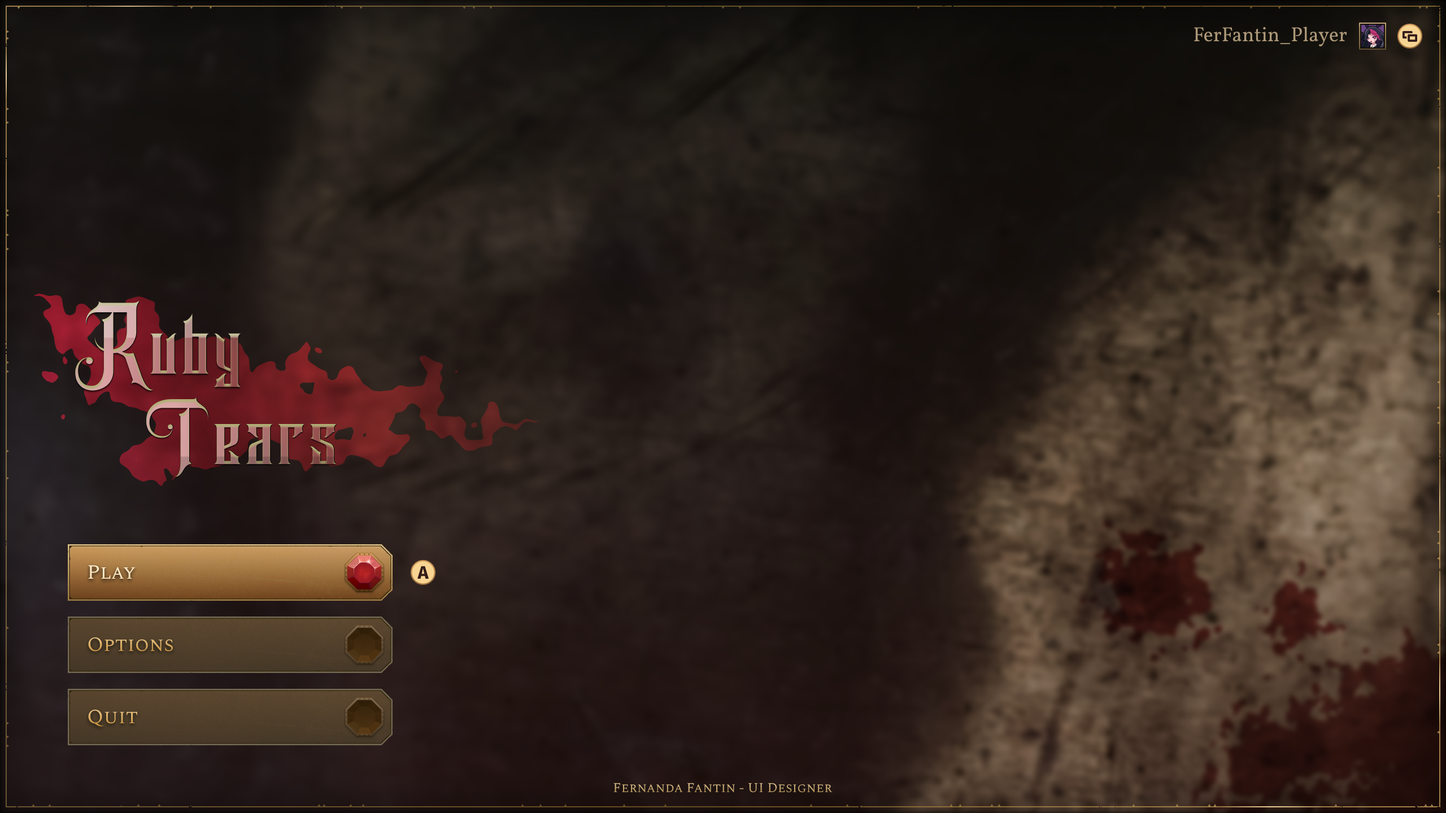
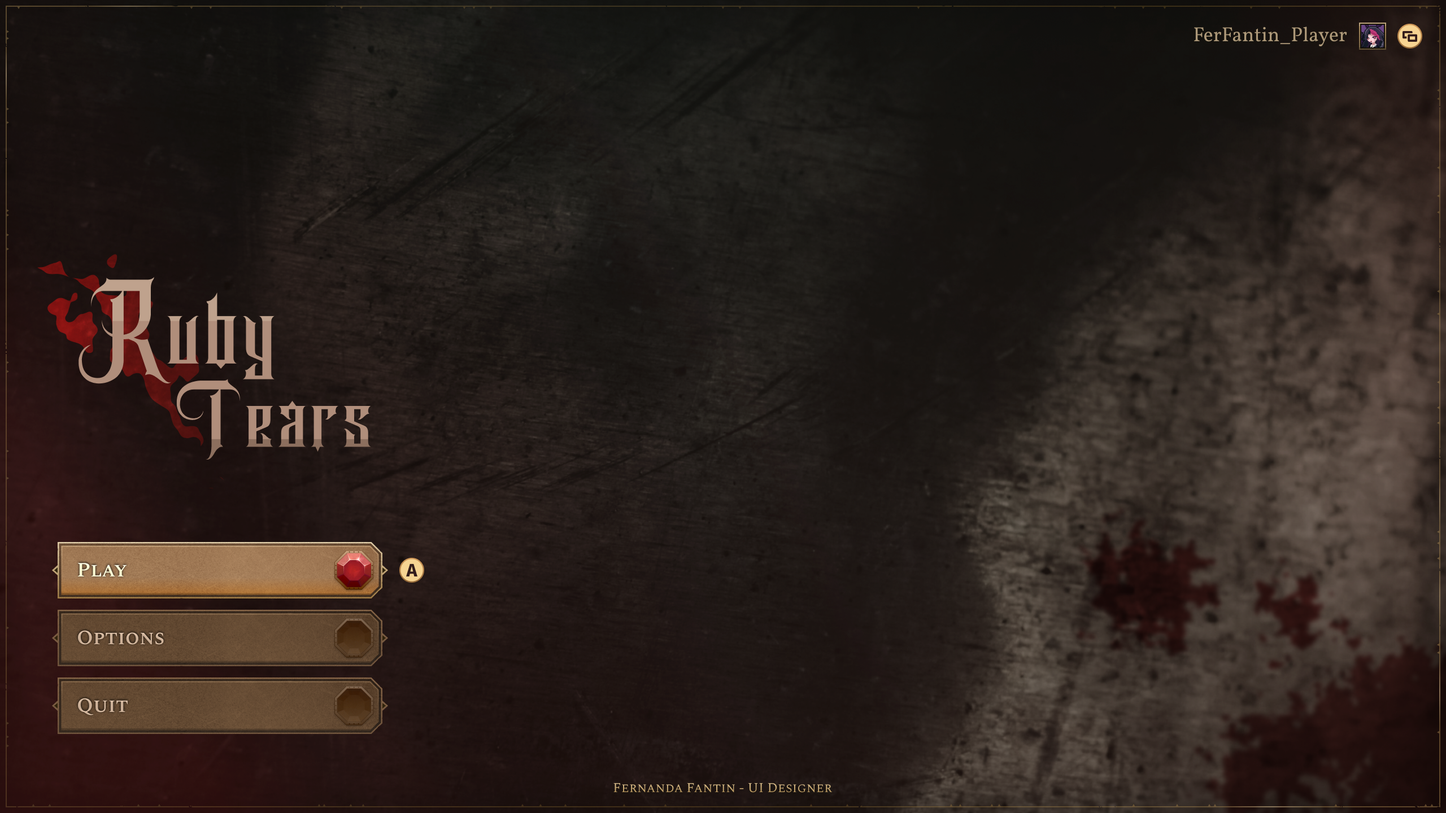
Updated RubyTears

diff --git a/Interfaces.html b/Interfaces.html
@@ -51,6 +51,30 @@
   <div class="bg-wrapper">
     <div class="textboxLarge">
       <div class="dataRowTitle">
+        <div class="title">Ruby Tears</div>
+      </div>
+      <div class="dataRowLarge">
+        <div class="legendText">Personal Project (2026)</div>
+      </div>
+      <br>
+      <div class="description">
+        Exploring a gamepad UI for an action RPG. Item images from Bloodborne (FromSoftware).
+        <br>
+        Character made by
+        <a href="https://www.artstation.com/artwork/aoZDYJ" class="linkText" target="_blank">Robin-Julian Sea Lee</a>.
+      </div>
+      <br>
+      <div class="modal-wrapper">
+        <img src="img/UI/Personal/RubyTears_01.png" name="modal" class="modaltriggerLarge">
+        <img src="img/UI/Personal/RubyTears_02.png" name="modal" class="modaltriggerMedium">
+        <img src="img/UI/Personal/RubyTears_03.png" name="modal" class="modaltriggerMedium">
+      </div>
+    </div>
+  </div>
+
+  <div class="bg-wrapper">
+    <div class="textboxLarge">
+      <div class="dataRowTitle">
         <div class="title">MIB Most Wanted</div>
       </div>
       <div class="dataRowLarge">
@@ -58,7 +82,9 @@
       </div>
       <br>
       <div class="description">
-        UI Design <span class="dimText">|</span> Logo <span class="dimText">|</span> UI Art Assets <span class="dimText">|</span> Custom Font <span class="dimText">|</span> UI Animation <span class="dimText">|</span> UI Setup in Unity
+        UI Design <span class="dimText">|</span> Logo <span class="dimText">|</span> UI Art Assets <span
+          class="dimText">|</span> Custom Font <span class="dimText">|</span> UI Animation <span
+          class="dimText">|</span> UI Setup in Unity
       </div>
       <br>
       <div class="modal-wrapper">
@@ -83,7 +109,9 @@
       </div>
       <br>
       <div class="description">
-        UI Design <span class="dimText">|</span> Logo <span class="dimText">|</span> UI Art Assets <span class="dimText">|</span> Tutorial Illustrations <span class="dimText">|</span> UI Animation <span class="dimText">|</span> UI Setup in Unity<br>
+        UI Design <span class="dimText">|</span> Logo <span class="dimText">|</span> UI Art Assets <span
+          class="dimText">|</span> Tutorial Illustrations <span class="dimText">|</span> UI Animation <span
+          class="dimText">|</span> UI Setup in Unity<br>
         Further images to be revealed after release.
       </div>
       <br>
@@ -96,30 +124,6 @@
     </div>
   </div>
 
-  <div class="bg-wrapper">
-    <div class="textboxLarge">
-      <div class="dataRowTitle">
-        <div class="title">Personal Projects</div>
-      </div>
-      <div class="dataRowLarge">
-        <div class="legendText">Style and Animation Studies</div>
-      </div>
-      <br>
-      <div class="description">
-        Practicing different UI art styles and animations.
-      </div>
-      <br>
-      <div class="modal-wrapper">
-        <img src="img/UI/Personal/RubyTears_01.png" name="modal" class="modaltriggerLarge"> 
-        <video class="modaltriggerVideoMedium" name="modal" autoplay muted loop webkit-playsinline playsinline>
-          <source src="img/UI/Personal/DangerGang.mp4" type="video/mp4" />
-        </video>
-        <video class="modaltriggerVideoMedium" name="modal" autoplay muted loop webkit-playsinline playsinline>
-          <source src="img/UI/Personal/AnimalCrossing.mp4" type="video/mp4" />
-        </video>
-      </div>
-    </div>
-  </div>
   <br><br>
 
   <div id="myModal" class="modal">
